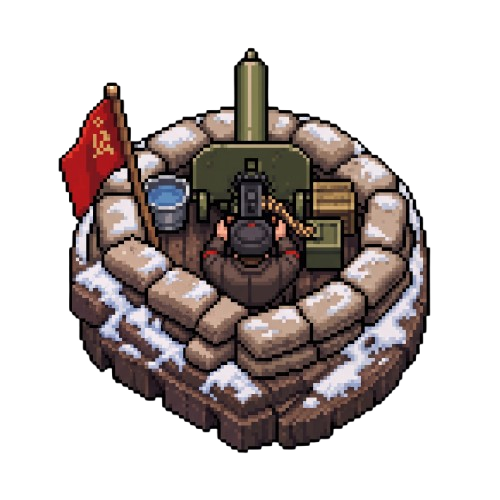
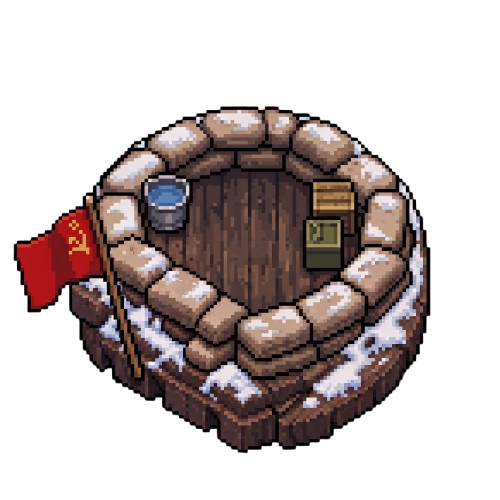
feat/torre-soldado girando

diff --git a/main.js b/main.js
@@ -10,6 +10,13 @@ let texProjetil = null;
 let localDeslocamento = null;
 let localEscala = null;
 let localRotacao = null;
+let texTorreDentro1 = null;
+let texTorreDentro2 = null;
+let texTorreDentro3 = null;
+let texSoldadoAtual = null;
+let flipXSoldado = 1;
+let flipYSoldado = 1;
+let anguloTorre = 0; 
 let tempoParaSpawn = 0;
 let tempoParaTiro = 0;
 let pontuacao = 0;
@@ -29,7 +36,28 @@ const projeteis = [];
 const bombas = [];
 
 
-function mouseMexeu(evento) {}
+function mouseMexeu(evento) {
+  const canvas = document.getElementById('gameCanvas') || evento.target;
+  const rect = canvas.getBoundingClientRect();
+  const ndcX = ((evento.clientX - rect.left) / rect.width) * 2.0 - 1.0;
+  const ndcY = 1.0 - ((evento.clientY - rect.top) / rect.height) * 2.0;
+
+  let anguloGraus = Math.atan2(ndcY - torre.y, ndcX - torre.x) * 180 / Math.PI;
+  if (anguloGraus < 0) anguloGraus += 360;
+
+  flipXSoldado = (anguloGraus > 90 && anguloGraus < 270) ? -1 : 1;
+  flipYSoldado = (anguloGraus > 180) ? -1 : 1;
+
+  // dobra o ângulo pra faixa 0-90 conforme o quadrante
+  let ref = anguloGraus;
+  if (flipXSoldado === -1 && flipYSoldado === 1) ref = 180 - anguloGraus;
+  else if (flipXSoldado === -1 && flipYSoldado === -1) ref = anguloGraus - 180;
+  else if (flipXSoldado === 1 && flipYSoldado === -1) ref = 360 - anguloGraus;
+
+  if (ref <= 30) texSoldadoAtual = texTorreDentro1;
+  else if (ref <= 60) texSoldadoAtual = texTorreDentro2;
+  else texSoldadoAtual = texTorreDentro3;
+}
 
 function pontuacaoAtualizada(valor) {
   pontuacao = pontuacao + valor;
@@ -281,6 +309,10 @@ void main() {
   texInimigoMorteDown = carregarTextura(glContext, 'assets/soldier_die_down.png');
   texProjetil = carregarTextura(glContext, 'assets/projetil.png');
   texBomba = carregarTextura(glContext, 'assets/bomb.png');
+  texTorreDentro1 = carregarTextura(glContext, 'assets/torre-dentro-1.png');
+  texTorreDentro2 = carregarTextura(glContext, 'assets/torre-dentro-2.png');
+  texTorreDentro3 = carregarTextura(glContext, 'assets/torre-dentro-3.png');
+  texSoldadoAtual = texTorreDentro1;
 
   // 5. Inicia valores de estado
   glContext.clearColor(0.2, 0.2, 0.2, 1); 
@@ -605,5 +637,10 @@ function desenhaCena(gl) {
     gl.uniform1f(localRotacao, projetil.angulo); 
     gl.drawArrays(gl.TRIANGLES, 0, 6);
   }
+
+  gl.bindTexture(gl.TEXTURE_2D, texSoldadoAtual);
+  gl.uniform2f(localDeslocamento, torre.x, torre.y);
+  gl.uniform2f(localEscala, 0.5 * flipXSoldado, 0.5 * flipYSoldado);
   gl.uniform1f(localRotacao, 0.0);
+  gl.drawArrays(gl.TRIANGLES, 0, 6);
 }
